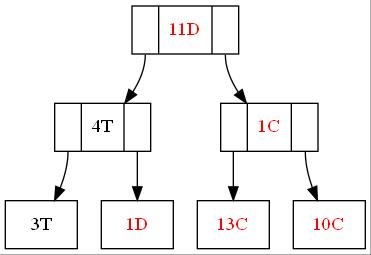
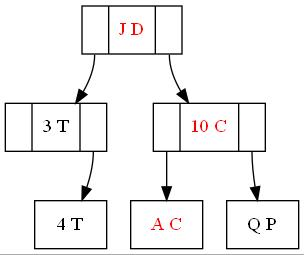
Termine proyectogit add .! ;)

diff --git a/src/main/java/com/proyecto2/Pyramid/Modelos/Nodo.java b/src/main/java/com/proyecto2/Pyramid/Modelos/Nodo.java
@@ -88,15 +88,15 @@ public class Nodo {
             //--
             if ((item >= 0 && item < 20) || (item >= 60 && item <= 73)) {
                 if ((item >= 0 && item < 20)) {
-                    etiqueta = "nodo" + id + " [ label =\"" + valor + "T" + "\", fontcolor=black];\n";
+                    etiqueta = "nodo" + id + " [ label =\"" + valorGraficar() + " T" + "\", fontcolor=black];\n";
                 } else {
-                    etiqueta = "nodo" + id + " [ label =\"" + valor + "P" + "\", fontcolor=black];\n";
+                    etiqueta = "nodo" + id + " [ label =\"" + valorGraficar() + " P" + "\", fontcolor=black];\n";
                 }
             } else {
                 if ((item >= 20 && item < 33)) {
-                    etiqueta = "nodo" + id + " [ label =\"" + valor + "D" + "\", fontcolor=red];\n";
+                    etiqueta = "nodo" + id + " [ label =\"" + valorGraficar() + " D" + "\", fontcolor=red];\n";
                 } else {
-                    etiqueta = "nodo" + id + " [ label =\"" + valor + "C" + "\", fontcolor=red];\n";
+                    etiqueta = "nodo" + id + " [ label =\"" + valorGraficar() + " C" + "\", fontcolor=red];\n";
                 }
             }
             //--
@@ -105,15 +105,15 @@ public class Nodo {
             //--
             if ((item >= 0 && item <= 20) || (item >= 60 && item <= 73)) {
                 if ((item >= 0 && item < 20)) {
-                    etiqueta = "nodo" + id + " [ label =\"<C0>|" + valor + "T" + "|<C1>\", fontcolor=black];\n";
+                    etiqueta = "nodo" + id + " [ label =\"<C0>|" + valorGraficar() + " T" + "|<C1>\", fontcolor=black];\n";
                 } else {
-                    etiqueta = "nodo" + id + " [ label =\"<C0>|" + valor + "P" + "|<C1>\", fontcolor=black];\n";
+                    etiqueta = "nodo" + id + " [ label =\"<C0>|" + valorGraficar() + " P" + "|<C1>\", fontcolor=black];\n";
                 }
             } else {
                 if ((item >= 20 && item < 33)) {
-                etiqueta = "nodo" + id + " [ label =\"<C0>|" + valor +"D"+ "|<C1>\", fontcolor=red];\n";}
-                else{
-                    etiqueta = "nodo" + id + " [ label =\"<C0>|" + valor +"C"+ "|<C1>\", fontcolor=red];\n";
+                    etiqueta = "nodo" + id + " [ label =\"<C0>|" + valorGraficar() + " D" + "|<C1>\", fontcolor=red];\n";
+                } else {
+                    etiqueta = "nodo" + id + " [ label =\"<C0>|" + valorGraficar() + " C" + "|<C1>\", fontcolor=red];\n";
                 }
             }
             //--
@@ -127,27 +127,31 @@ public class Nodo {
                     + "nodo" + id + ":C1->nodo" + derecha.id + "\n";
         }
         return etiqueta;
+    }
 
-        /*if (izquierda == null && derecha == null) {
-            // treboles
-            if (item >= 0 && item <= 20 || item >= 60 && item <= 73) {
-                etiqueta = "nodo" + id + " [ label =\"" + valor + "\",fontcolor=black];\n";
-            }else {etiqueta = "nodo" + id + " [ label =\"" + valor + "\",fontcolor=red];\n";}
+    private String valorGraficar() {
+        String valorG="";
+        if (valor == 11) {
+            valorG = "J";
+            return valorG;
+        }
+        else if (valor == 1) {
+            valorG = "A";
+            return valorG;
+        }
+        else if (valor == 12) {
+            valorG = "Q";
+            return valorG;
+        }
+        else if (valor == 13) {
+            valorG = "K";
+            return valorG;
+        } else if(valor>=2 && valor<=10) {
+            valorG = Integer.toString(valor);
+            return valorG;
+        }
 
-        } else {
-            if (item >= 0 && item <= 20 || item >= 60 && item <= 73) {
-                etiqueta = "nodo" + id + " [ label =\"" + valor + "\",fontcolor=black];\n";
-            }else { etiqueta = "nodo" + id + " [ label =\"" + valor + "\",fontcolor=red];\n";}
-           
-        }
-        if (izquierda != null) {
-            etiqueta = etiqueta + izquierda.getCodigoInterno()
-                    + "nodo" + id + ":C0->nodo" + izquierda.id + "\n";
-        }
-        if (izquierda != null) {
-            etiqueta = etiqueta + derecha.getCodigoInterno()
-                    + "nodo" + id + ":C1->nodo" + derecha.id + "\n";
-        }
-        return etiqueta;*/
+        return valorG;
+
     }
 }

diff --git a/src/main/java/com/proyecto2/Pyramid/Modelos/Operaciones.java b/src/main/java/com/proyecto2/Pyramid/Modelos/Operaciones.java
@@ -224,5 +224,6 @@ public class Operaciones {
         }
         this.carta=carta;
     }
+    
  
 }
